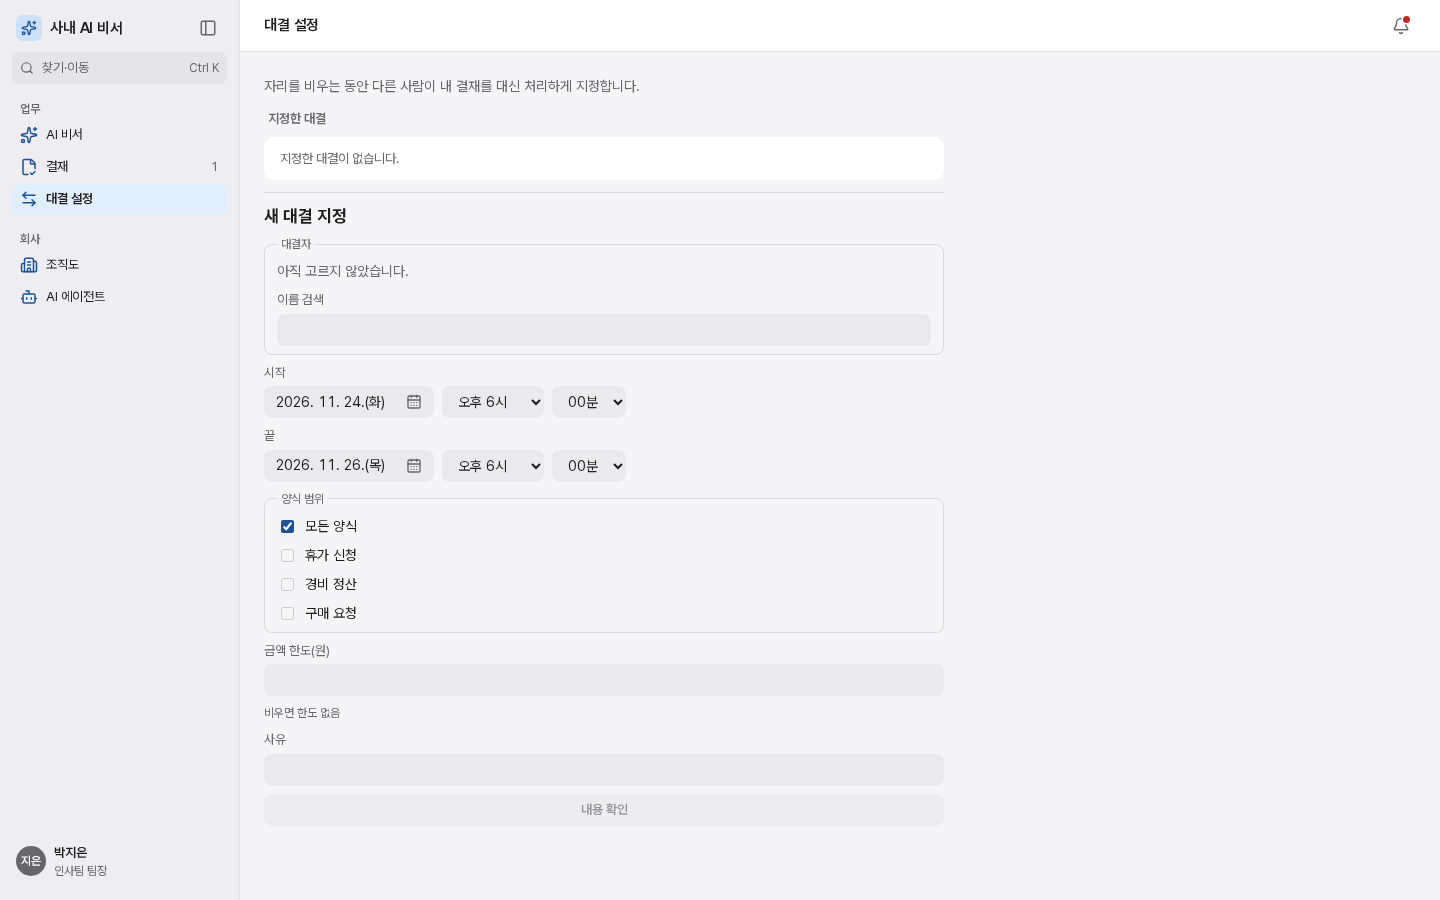
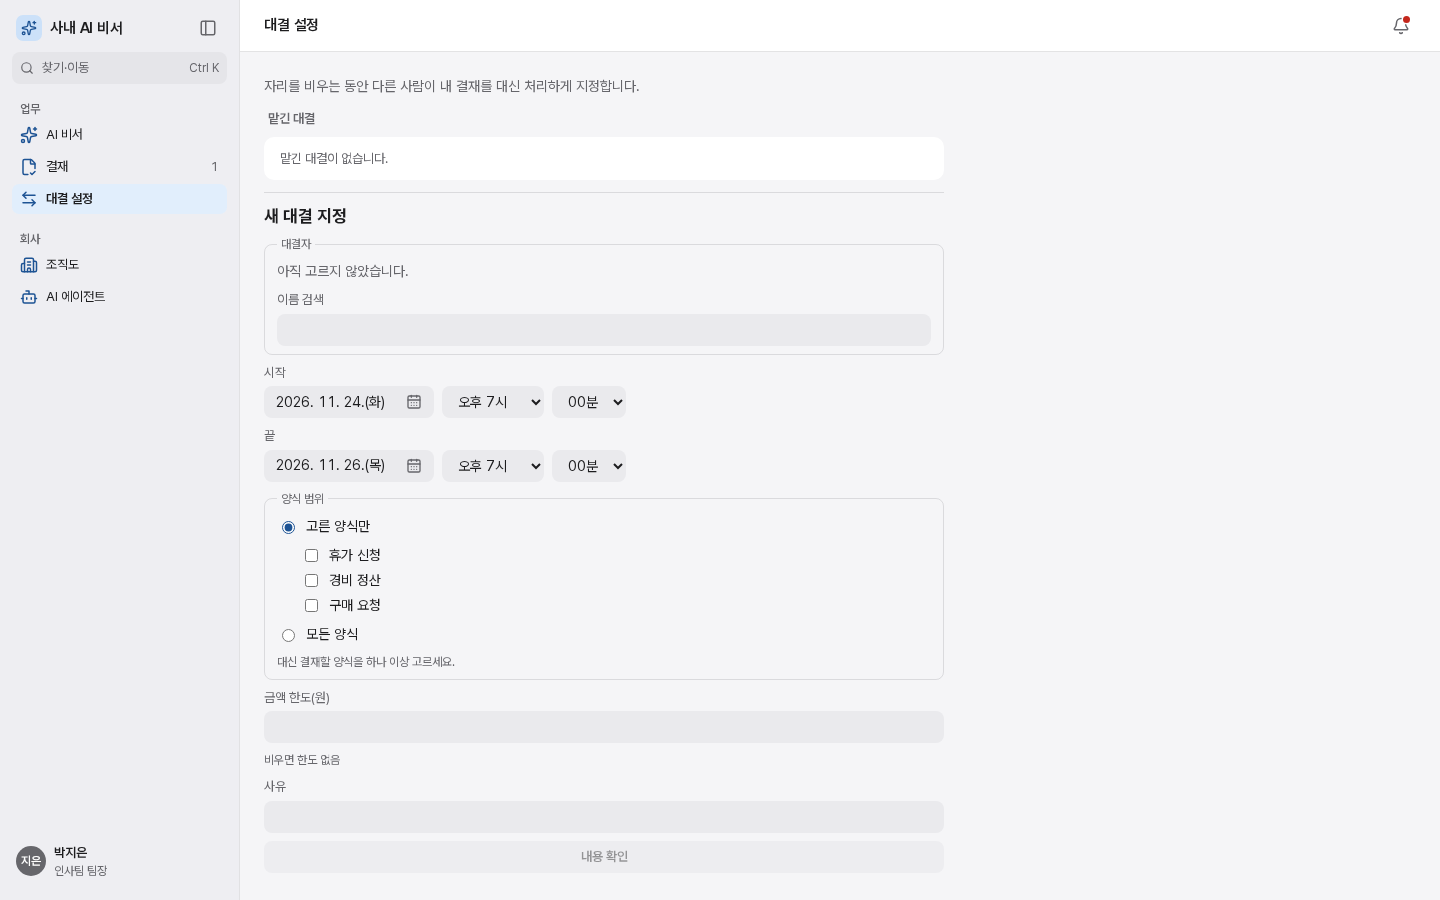
docs(web): 최신 erp·agent로 README 실제 스택 화면을 다시 찍고 옛 이미지 메모를 지웁니다

diff --git a/web/README.md b/web/README.md
@@ -165,7 +165,7 @@ docker compose -f infra/compose.yaml --env-file .env --profile full up -d --buil
 
 ### 실제 스택
 
-`infra/compose.yaml`의 `full` 프로필(erp, gateway, agent, rag, LiteLLM, 이 PC의 Ollama)을 세션 6 포트로 띄우고 web은 `npm run dev`로 붙여 찍었습니다. 이미지는 새로 빌드하지 않고 하루 전에 빌드한 것을 썼습니다. 직원 `E0007`이 AI 비서에 연차 규정을 묻고 오후 반차를 신청한 뒤, 팀장 `E0006`의 결재 대기에 그 문서가 들어온 것을 찍었습니다. 운영 화면은 감사 권한이 있는 `E0057`로 찍었습니다.
+`infra/compose.yaml`의 `full` 프로필(erp, gateway, agent, rag, LiteLLM, 이 PC의 Ollama)을 세션 6 포트로 띄우고 web은 `npm run dev`로 붙여 찍었습니다. erp·agent는 최신 develop(#634 결재 필드 순서, #635 답 문구)으로 다시 빌드했고, 나머지 이미지는 하루 전에 빌드한 것을 썼습니다. 직원 `E0007`이 AI 비서에 연차 규정을 묻고 오후 반차를 신청한 뒤, 팀장 `E0006`의 결재 대기에 그 문서가 들어온 것을 찍었습니다. 운영 화면은 감사 권한이 있는 `E0057`로 찍었습니다.
 
 | AI 비서: 규정 답(근거 규정 2건) | AI 비서: 반차 신청 → 완료한 일 |
 |---|---|
@@ -182,11 +182,6 @@ docker compose -f infra/compose.yaml --env-file .env --profile full up -d --buil
 | 조직도 | AI 에이전트 |
 |---|---|
 | ![실제 조직도](docs/images/stack-org.png) | ![실제 AI 에이전트](docs/images/stack-agents.png) |
-
-실제 스택 화면에는 아래 두 가지가 아직 보입니다. 찍을 때 쓴 이미지가 두 수정보다 먼저 빌드된 것이기 때문입니다.
-
-- 에이전트 답 본문에 "되돌릴 수 있습니다: …(행동 act_…)"처럼 내부 행동 ID와 옛 말이 들어갑니다. agent의 고정 안내 문구에서 고칩니다.
-- 결재 문서 상세의 필드 순서가 사유 → 종료일 → 종류 → 시작일로 나옵니다. erp가 양식 정의 순서로 돌려주도록 고쳤습니다(#634).
 
 다시 찍는 방법:
 
